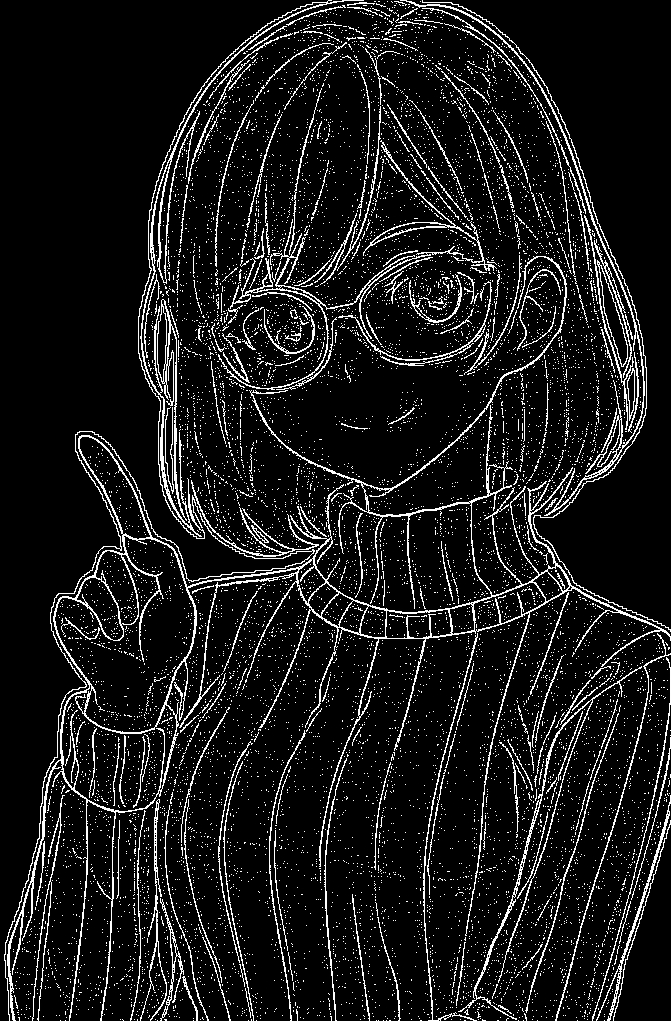
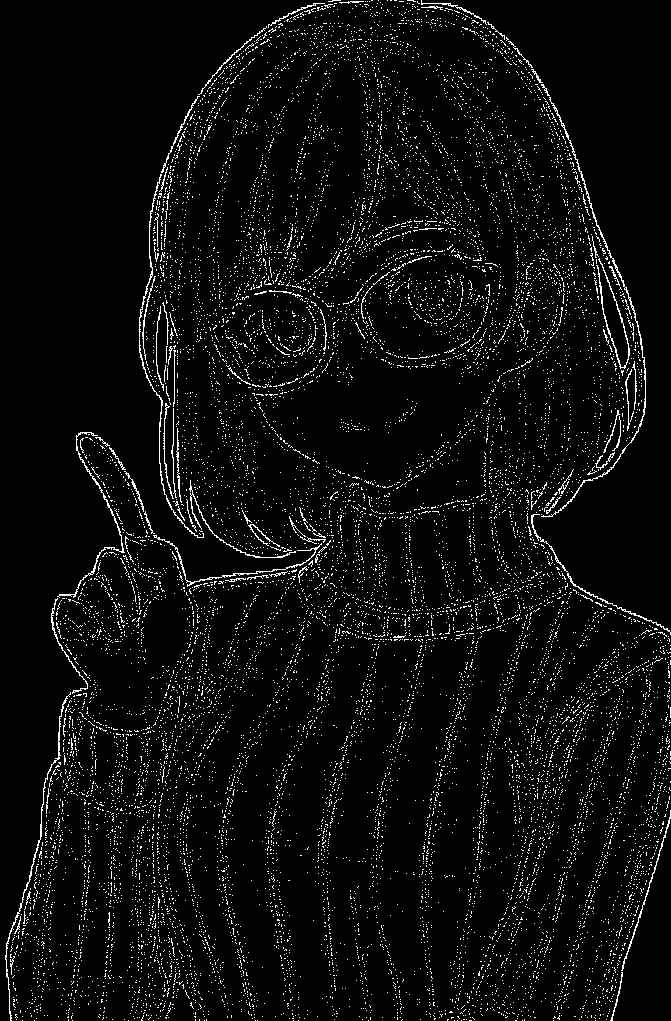
fix

diff --git a/python/opencv/filter2d/DoG/sample01.py b/python/opencv/filter2d/DoG/sample01.py
@@ -16,7 +16,7 @@ img = cv.imread('C:/github/sample/python/opencv/filter2d/DoG/input.png')
 gray = cv.cvtColor(img, cv.COLOR_RGB2GRAY)
 
 # LoGフィルタの適用
-log_img = DoG(gray, (3,3), 1.3, 2.6)
+log_img = DoG(gray, (3,3), 3.2, 2.0)
 
 # 結果を保存
 cv.imwrite('C:/github/sample/python/opencv/filter2d/DoG/output.png', log_img)
